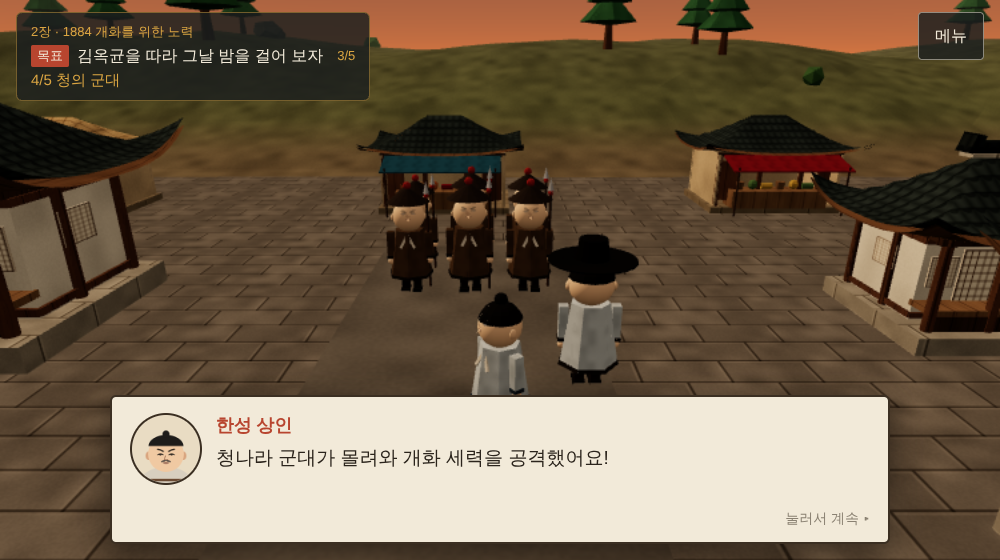
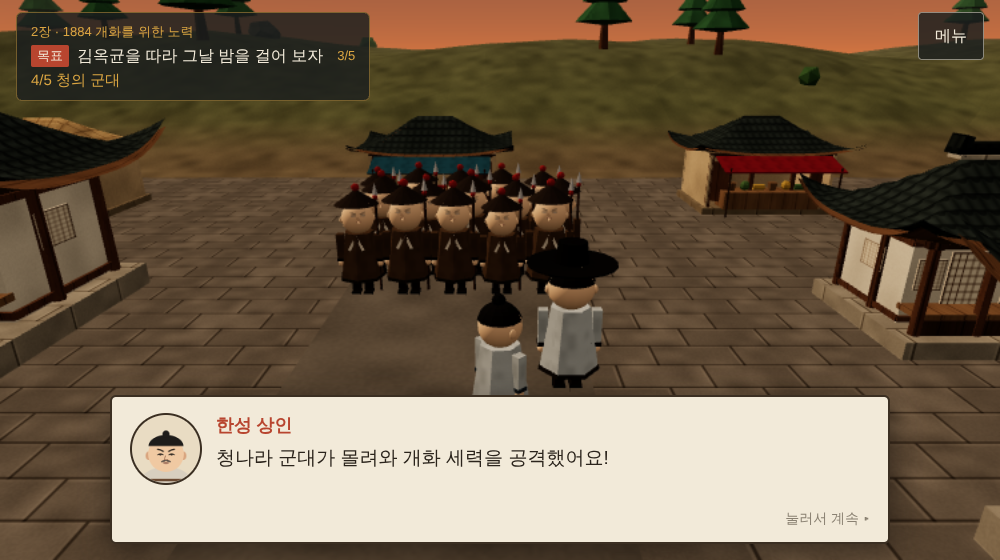
근대 2장 고침(D-29): 김옥균이 몸을 피한 자리에서 '일본으로 몸을 피했어요' 해설, 청 군사 15명으로
Claude-Session: https://claude.ai/code/session_014LB5kAoBxkJ3uzw5BHNRPe

diff --git a/chapters/modern/k2/chapter.js b/chapters/modern/k2/chapter.js
@@ -104,7 +104,8 @@ export async function nightWalk(ctx) {
   await ctx.fade?.(false);
   // 3에서 솟는 게시판, 4에서 몰려오는 청 군사
   const board = new THREE.Group(); BUILD.noticeBoard(board, {}); board.position.set(-6, -3, -4); board.visible = false; g.add(board);
-  const qing = [0, 1, 2, 3, 4, 5].map(i => { const p = makePerson(LOOKS.qingSoldier); p.position.set((i % 3 - 1) * 1.6, 0, -26 - Math.floor(i / 3) * 1.6); p.visible = false; g.add(p); return p; });
+  const QING = 15, row = j => Math.floor(j / 5); // 다섯 줄 세 겹, 줄마다 조금씩 엇갈려 몰려온다
+  const qing = Array.from({ length: QING }, (_, i) => { const p = makePerson(LOOKS.qingSoldier); p.position.set((i % 5 - 2) * 1.25 + (row(i) % 2) * 0.4, 0, -26 - row(i) * 1.5); p.visible = false; g.add(p); return p; });
   try {
     for (const [i, st] of NIGHT_STOPS.entries()) {
       ctx.hud.setCounter(`${i + 1}/${NIGHT_STOPS.length} ${N.stops[i].label}`);
@@ -113,7 +114,7 @@ export async function nightWalk(ctx) {
       if (i === 2) { board.visible = true; await wait(world, 1.2, k => { board.position.y = -3 * (1 - k) * (1 - k); }); }
       if (i === 3) { // 청 군사들이 북쪽에서 걸어 내려온다
         qing.forEach(p => { p.visible = true; });
-        await wait(world, 3, (k, dt) => qing.forEach((p, j) => { p.position.z = -26 - Math.floor(j / 3) * 1.6 + 12 * k; animateWalk(p, k < 1, dt); }));
+        await wait(world, 3, (k, dt) => qing.forEach((p, j) => { p.position.z = -26 - row(j) * 1.5 + 12 * k; animateWalk(p, k < 1, dt); }));
       }
       if (i !== 3) { // 김옥균이 학생 쪽으로 돌아서서 정면으로 말한다
         const m = kim.mesh.position, pp = world.player.position;
@@ -126,6 +127,7 @@ export async function nightWalk(ctx) {
         const p0 = kim.mesh.position.clone(), to = a.at(16, -11);
         await wait(world, 2.2, (k, dt) => { world.moveNpc('kimokgyun', p0.x + (to.x - p0.x) * k, p0.z + (to.z - p0.z) * k, Math.PI / 2); animateWalk(kim.mesh, k < 1, dt); });
       }
+      if (N.stops[i].after) { await sayAll(dialogue, N.stops[i].after); dialogue.close(); }
     }
   } finally {
     ctx.hud.setCounter(null);

diff --git a/chapters/modern/k2/script.js b/chapters/modern/k2/script.js
@@ -68,7 +68,7 @@ export default {
       { label: '3일 만에 끝남', talk: [
         { who: 'kimokgyun', text: '청의 군사를 막을 수가 없구려. 몸을 피해야 하오.' },
         { who: 'narr', text: '갑신정변은 청이 군사를 동원하면서 3일 만에 끝났어요(1884년).', src: ['S51'] },
-      ] },
+      ], after: [{ who: 'narr', text: '김옥균 등은 일본으로 몸을 피했어요.', src: ['S51'] }] }, // 김옥균이 골목으로 걸어간 뒤 그 자리에서
     ],
   },
   parts: {
@@ -87,7 +87,7 @@ export default {
       fail: '개화 세력은 청에서 벗어나고, 백성이 평등하고, 나라 살림이 넉넉해지기를 바랐어요.',
     },
   },
-  result: [{ who: 'narr', text: '김옥균 등은 일본으로 몸을 피했고, 그 뒤 청의 간섭은 더욱 심해졌어요.', src: ['S51'] }],
+  result: [{ who: 'narr', text: '갑신정변 뒤 청의 간섭은 더욱 심해졌어요.', src: ['S51'] }],
   quizzes: [
     { kind: 'quiz', year: 1884, question: '갑신정변을 일으킨 개화 세력의 인물은?', options: ['전봉준', '김옥균', '서재필'], answer: 1, explain: '김옥균 등 개화 세력이 1884년 갑신정변을 일으켰어요.', src: ['S51'] },
     { kind: 'quiz', year: 1884, question: '갑신정변은 며칠 만에 끝났나요?', options: ['3일', '30일', '3년'], answer: 0, explain: '청이 군사를 동원하면서 3일 만에 끝났어요.', src: ['S51'] },

diff --git a/tests/k2.test.js b/tests/k2.test.js
@@ -15,6 +15,7 @@ test('k2 D-29: 거리 사람은 아무 차례로, 김옥균 앞에서 학생의 
 test('k2 D-29: 놀이는 김옥균 따라 밤길(장면)과 방 붙이기, 이정표·팻말 찾기 없음', () => {
   eq(k2.parts.map(p => p.type), ['scene', 'deliver']);
   eq(script.night.stops.length, 5);
+  ok(script.night.stops[4].after.some(l => l.text.includes('일본으로 몸을 피했')), '몸을 피한 뒤 그 자리에서 해설');
   ok(script.night.stops.every(s => s.talk.length));
   const reform = k2.parts[1];
   ok(reform.cards.every(c => c.carry === 'notice'));

diff --git a/docs/team/decisions.md b/docs/team/decisions.md
@@ -128,4 +128,5 @@
 - 1884년에 맞지 않던 밤거리 무대의 헌병(gendarme)·천막을 뺐다.
 - 공용 도구: `chapters/kit/talk.js`(문으로 들어와 아무 차례로 말 잇기, k1·k2가 같이 씀), 가져다 놓기 칸 `drop`(붙일 자리), 물건 `notice`(방).
 - 밤길 걷기는 장면(scene)이라 첫 시도 점수에는 방 붙이기만 들어간다.
+- 2026-10-28 선생님 추가 결정: "1. 해설 보여줘 2. 더 많이" → 김옥균이 골목으로 걸어간 그 자리에서 '김옥균 등은 일본으로 몸을 피했어요.'(S51) 해설, 결과 해설은 '갑신정변 뒤 청의 간섭은 더욱 심해졌어요.'로. 청 군사 6명 → 15명(다섯 줄 세 겹).
 - 상태: 만듦, 선생님 확인 대기
